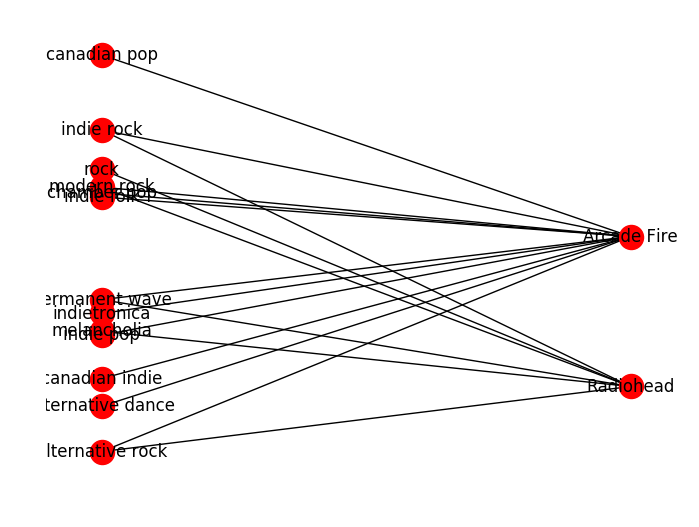
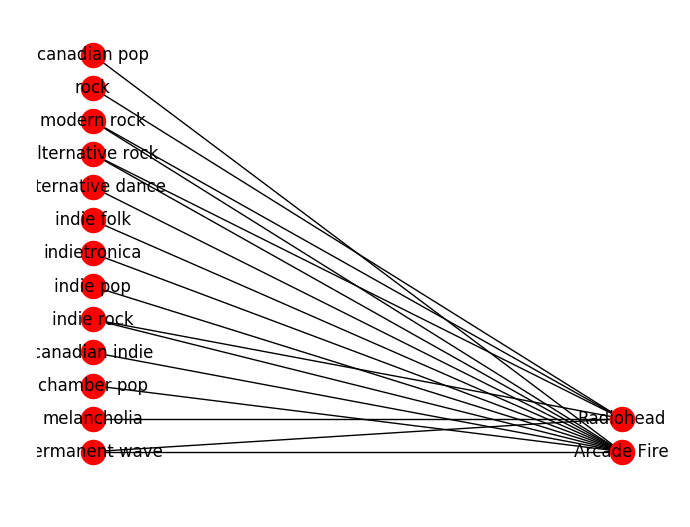
Extracts some code to external files, and adds some new analysis

diff --git a/genres_graph.py b/genres_graph.py
@@ -1,66 +1,61 @@
 from serialize import save
-from graph import produce_graph as pg
 import networkx as nx
 import operator
+from graph.produce_graph import create_genre_graph, get_connected_components, plot_graph
+from graph.genre_graph_utils import decompose, get_genre_clusters, get_genre_degrees
+import matplotlib.pyplot as plt
 
+# load up data
 genres_map = save.load('genres_2017-09-11 01:33:42.733512')
 num_listens = save.load('total_number_of_listens_2017-09-13 00:33:36.633054')
 listening_history = save.load('listening_history_2017-09-13 00:33:36.631360')
 
+# Clean up some entries that throw errors
 genres_map['Joey Badass'] = genres_map.pop('Joey Bada$$')
 num_listens['Joey Badass'] = num_listens.pop('Joey Bada$$')
 listening_history['Joey Badass'] = listening_history.pop('Joey Bada$$')
 
-all_genres = set([genre for genres in genres_map.values() for genre in genres])
-print('Number of genres: ',len(all_genres))
-all_artists = genres_map.keys()
-print('Number of artists: ', len(all_artists))
-connections = [(genre,artist) for genre,artists in genres_map.items() for artist in artists]
-print('Number of connections: ', len(connections))
-
-# Create the bipartite graph
-B = nx.Graph()
-B.add_nodes_from(all_genres, bipartite=0)
-B.add_nodes_from(all_artists, bipartite=1)
-for artist, genres in genres_map.items():
-    for genre in genres:
-        B.add_edge(genre, artist, weight=num_listens[artist])
-
-# Filter the graph by edge weights
-# The idea behind this is to get a nicer understanding of the connected component subgraphs
-# Perhaps these subgraphs could act as a sort of equivalence relation on the genres...
-sigma = 100
-filtered_edges = [(u,v,d) for u,v,d in B.edges(data=True) if d['weight'] > sigma]
-B = nx.Graph()
-B.add_weighted_edges_from(filtered_edges)
+# Create the graph
+B = create_genre_graph(genres_map, num_listens, 100)
 
 # Get number of connected components
 # The 0-labeled nodes can be thought of as genre clusters
-graphs = list(nx.connected_component_subgraphs(B))
+graphs = get_connected_components(B)
 print('Number of connected component subgraphs (genre clusters): ',len(graphs))
 
 # Get the genre clusters for each connected component subgraph
-for index, graph in enumerate(graphs):
-    genres, _ = nx.bipartite.sets(graph)
-    print("Genre cluster %d:"%(index))
-    print(list(genres))
+for index, cluster in enumerate(get_genre_clusters(B)):
+    if len(cluster) > 0:
+        print("Genre cluster %d:"%(index))
+        print(cluster)
 
 # Get degrees:
 print('Degrees of all genres: ')
-degrees = B.degree(all_genres)
+degrees = get_genre_degrees(B)
 print(sorted(degrees.items(), key=operator.itemgetter(1)))
 max_degree_val = max(degrees.values()) 
-
-# Get the genres in the first connected component subgraph
-l,r = nx.bipartite.sets(graphs[0])
-print('Number of genres in ccs1: ',len(l))
-print(l)
-
+print('Max degree: ',max_degree_val)
 
 # print all the subgraphs
-pos = {}
-pos.update((node,(1,index)) for index, node in enumerate(all_genres))
-pos.update((node,(2,index)) for index, node in enumerate(all_artists))
+counter = 0
+for graph in graphs:
+    if graph.number_of_edges() > 0:
+        genres, artists = decompose(graph)
+        pos = {}
+        pos.update((node,(1,index)) for index, node in enumerate(genres))
+        pos.update((node,(2,index)) for index, node in enumerate(artists))
+        plot_graph(graph, 'genres_subgraph_%d.png'%(counter),pos)
+        counter += 1;
 
-for index, graph in enumerate(graphs):
-    pg.plot_graph(graph,'genres_subgraph_%d.png'%(index), pos)
+
+# plot # genre clusters vs sigma
+sigmas = range(1,100)
+genre_cluster_counts = []
+for sigma in sigmas:
+    cluster_count = len(get_genre_clusters(create_genre_graph(genres_map, num_listens, sigma)))
+    genre_cluster_counts.append(cluster_count)
+plt.clf()
+plt.plot(sigmas, genre_cluster_counts)
+plt.xlabel('Minimum number of listens')
+plt.ylabel('# Genre Clusters')
+plt.savefig('plots/num_listens_vs_num_genre_clusters.png')

diff --git a/graph/produce_graph.py b/graph/produce_graph.py
@@ -15,6 +15,40 @@ def generate_graph(themap):
     print("Number of edges: ",G.number_of_edges())
     return G
 
+'''
+genres_map: ArtistName -> [GenreName]
+num_listens: ArtistName -> totalNumListens on spotify
+sigma: the edge weight filtering criterion
+
+Returns a bipartite graph where:
+    - left nodes are genres
+    - right nodes are artists
+    - edges connect artists to the genres under which they fall
+    - edge weights correspond to the total number of times I've listened 
+        to a given artist
+'''
+def create_genre_graph(genres_map, num_listens, sigma):
+    all_genres = set([genre for genres in genres_map.values() for genre in genres])
+    print('Number of genres: ',len(all_genres))
+    all_artists = genres_map.keys()
+    print('Number of artists: ', len(all_artists))
+    
+    B = nx.Graph()
+    B.add_nodes_from(all_genres, bipartite=0)
+    B.add_nodes_from(all_artists, bipartite=1)
+    for artist, genres in genres_map.items():
+        for genre in genres:
+            weight = num_listens[artist]
+            if weight > sigma:
+                B.add_edge(genre, artist, weight=weight)
+    return B
+
+'''
+Get the connected component subgraphs of G
+'''
+def get_connected_components(G):
+    return list(nx.connected_component_subgraphs(G))
+
 def plot_graph(G, plot_name, pos=None):
     plt.clf()
     nx.draw(G, with_labels=True, pos=pos)

diff --git a/graph/genre_graph_utils.py b/graph/genre_graph_utils.py
@@ -1,0 +1,28 @@
+import networkx as nx
+from .produce_graph import get_connected_components
+
+'''
+Returns genres, artists
+'''
+def decompose(G):
+    return nx.bipartite.sets(G)
+
+'''
+Returns a list of genre clusters, where
+each cluster is a list of genrenames
+'''
+def get_genre_clusters(G):
+    clusters = []
+    for SG in get_connected_components(G):
+        genres, _ = decompose(SG)
+        clusters.append(genres)
+    return clusters
+
+'''
+Returns a map: GenreName -> degree of genre node
+'''
+def get_genre_degrees(G):
+    genres, _ = decompose(G)
+    degrees = G.degree(genres)
+    return degrees
+    
